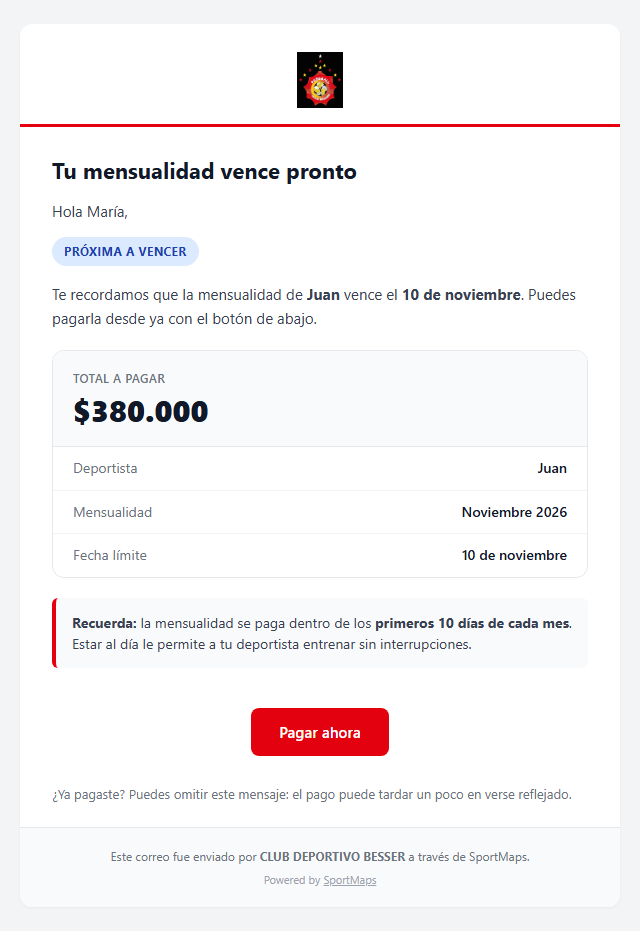
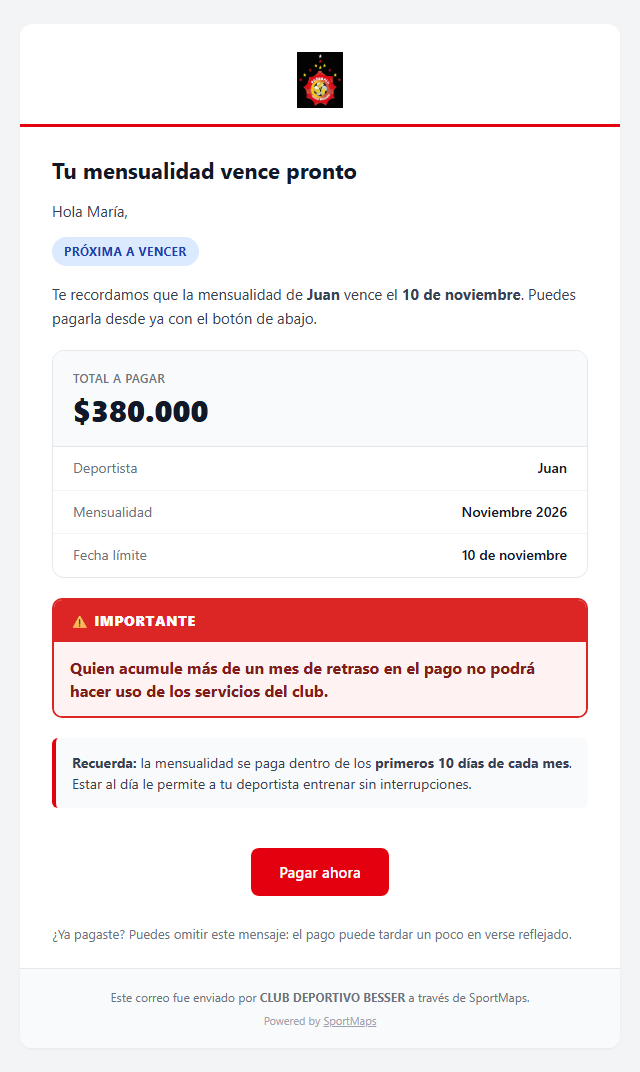
feat(cobranza): aviso de política de cobranza destacado en los recordatorios por correo
school_settings.collection_policy_notice (mig 20261014125527, aplicada): texto
de la escuela que sale en un recuadro rojo «IMPORTANTE» en cada correo de la
cadencia. Besser: «Quien acumule más de un mes de retraso en el pago no podrá
hacer uso de los servicios del club». NULL = sin recuadro (resto de escuelas).

Changed region(s): [[0.0312, 0.0311, 0.9688, 0.9656], [0.0625, 0.7164, 0.0938, 0.7476]]

diff --git a/bff/src/services/recordatorios-cobro.service.ts b/bff/src/services/recordatorios-cobro.service.ts
@@ -165,6 +165,8 @@ export interface ContactoPlaneado {
     perfilId: string | null;
     /** Día de corte de la escuela, para el recordatorio del correo. */
     diaCorte?: number | null;
+    /** Aviso de política de cobranza de la escuela (school_settings.collection_policy_notice). */
+    avisoPolitica?: string | null;
     concepto: ConceptoRecordatorio;
     /** Cobros que menciona el mensaje; el primero es el "líder" (el más viejo): botón y candado. */
     paymentIds: string[];
@@ -197,6 +199,8 @@ export interface EntradaPlan {
     canalCorreo?: boolean;
     /** Día del mes hasta el que se paga (calendario fijo): el correo lo recuerda. */
     diaCorte?: number | null;
+    /** Aviso de política de cobranza de la escuela, destacado en el correo. */
+    avisoPolitica?: string | null;
 }
 
 /**
@@ -273,6 +277,7 @@ export function planificar(e: EntradaPlan): Plan {
             email: g.canal === 'email' ? destino : null,
             perfilId: g.familias.find((f) => f.perfilId)?.perfilId ?? null,
             diaCorte: e.diaCorte ?? null,
+            avisoPolitica: e.avisoPolitica ?? null,
             concepto: lider.escalon.concepto,
             paymentIds: grupo.map((c) => c.paymentId),
             datos: {
@@ -446,7 +451,7 @@ export async function planDeEscuela(
     const [{ data: escuela }, integracion, { data: ajustes }] = await Promise.all([
         supabase.from('schools').select('name').eq('id', schoolId).maybeSingle(),
         integracionActiva(schoolId),
-        supabase.from('school_settings').select('payment_cutoff_day, billing_cycle_type').eq('school_id', schoolId).maybeSingle(),
+        supabase.from('school_settings').select('payment_cutoff_day, billing_cycle_type, collection_policy_notice').eq('school_id', schoolId).maybeSingle(),
     ]);
     const nombreEscuela = String((escuela as any)?.name ?? '').replace(/&amp;/g, '&');
     // «Los primeros N días de cada mes» solo es cierto con calendario fijo
@@ -454,6 +459,7 @@ export async function planDeEscuela(
     const diaCorte = (ajustes as any)?.billing_cycle_type === 'fixed_calendar'
         ? Number((ajustes as any)?.payment_cutoff_day) || null
         : null;
+    const avisoPolitica = String((ajustes as any)?.collection_policy_notice ?? '').trim() || null;
 
     // Solo mensualidades (las plantillas dicen "la mensualidad de …"), con saldo
     // y sin comprobante en revisión: a quien ya pagó y espera aprobación no se le cobra.
@@ -530,6 +536,7 @@ export async function planDeEscuela(
         contactadosHoy: new Set([...estadoHoy, ...recordatorioHoy]),
         canalCorreo: canales.correo,
         diaCorte,
+        avisoPolitica,
     });
     return {
         plan,
@@ -563,6 +570,7 @@ async function enviarPorCorreo(schoolId: string, c: ContactoPlaneado, lider: str
         paymentLink: link,
         schoolId,
         cutoffDay: c.diaCorte ?? null,
+        policyNotice: c.avisoPolitica ?? null,
     });
     const r = await emailClient.send({ to: c.email, subject: tpl.subject, html: tpl.html });
     if (!r?.success) return { enviado: false, motivo: 'correo_fallo' };

diff --git a/bff/src/utils/emailTemplates.ts b/bff/src/utils/emailTemplates.ts
@@ -245,6 +245,8 @@ export const BrandedEmailTemplates = {
         paymentLink: string;
         schoolId: string | null;
         cutoffDay?: number | null; // 10 → "los primeros 10 días de cada mes"
+        /** Política de cobranza de la escuela (school_settings.collection_policy_notice): recuadro destacado. */
+        policyNotice?: string | null;
     }): Promise<{ subject: string; html: string }> => {
         const branding = await resolveSchoolBranding(params.schoolId);
         const escuela = branding.schoolName.replace(/&amp;/g, '&');
@@ -340,6 +342,23 @@ export const BrandedEmailTemplates = {
                 </table>`
             : '';
 
+        const politica = params.policyNotice?.trim()
+            ? `
+                <table role="presentation" cellpadding="0" cellspacing="0" border="0" width="100%"
+                       style="margin: 20px 0 4px 0; border: 2px solid #dc2626; border-radius: 10px; border-collapse: separate; overflow: hidden;">
+                    <tr>
+                        <td style="background-color: #dc2626; padding: 10px 16px;">
+                            <p style="margin: 0; color: #ffffff; font-size: 14px; font-weight: 800; letter-spacing: 0.6px; text-transform: uppercase;">&#9888;&#65039; Importante</p>
+                        </td>
+                    </tr>
+                    <tr>
+                        <td style="background-color: #fef2f2; padding: 14px 16px;">
+                            <p style="margin: 0; color: #7f1d1d; font-size: 16px; font-weight: 700; line-height: 1.45;">${escapeHtml(params.policyNotice.trim())}</p>
+                        </td>
+                    </tr>
+                </table>`
+            : '';
+
         return {
             subject: t.subject,
             html: buildBrandedEmail({
@@ -364,6 +383,7 @@ export const BrandedEmailTemplates = {
                         </tr>
                         ${filas.map(([k, v], i) => fila(k, v, i === filas.length - 1)).join('')}
                     </table>
+                    ${politica}
                     ${corte}
                 `,
                 cta: { label: 'Pagar ahora', url: params.paymentLink },

diff --git a/docs/ejemplos-correos/besser/3-recordatorio_previo.html b/docs/ejemplos-correos/besser/3-recordatorio_previo.html
@@ -61,6 +61,20 @@
             </tr>
                     </table>
                     
+                <table role="presentation" cellpadding="0" cellspacing="0" border="0" width="100%"
+                       style="margin: 20px 0 4px 0; border: 2px solid #dc2626; border-radius: 10px; border-collapse: separate; overflow: hidden;">
+                    <tr>
+                        <td style="background-color: #dc2626; padding: 10px 16px;">
+                            <p style="margin: 0; color: #ffffff; font-size: 14px; font-weight: 800; letter-spacing: 0.6px; text-transform: uppercase;">&#9888;&#65039; Importante</p>
+                        </td>
+                    </tr>
+                    <tr>
+                        <td style="background-color: #fef2f2; padding: 14px 16px;">
+                            <p style="margin: 0; color: #7f1d1d; font-size: 16px; font-weight: 700; line-height: 1.45;">Quien acumule más de un mes de retraso en el pago no podrá hacer uso de los servicios del club.</p>
+                        </td>
+                    </tr>
+                </table>
+                    
                 <table role="presentation" cellpadding="0" cellspacing="0" border="0" width="100%" style="margin: 20px 0 4px 0;">
                     <tr>
                         <td style="background-color: #f9fafb; border-left: 4px solid #E3000F; border-radius: 6px; padding: 14px 16px;">

diff --git a/docs/ejemplos-correos/besser/4-vence_hoy.html b/docs/ejemplos-correos/besser/4-vence_hoy.html
@@ -60,6 +60,20 @@
             </tr>
                     </table>
                     
+                <table role="presentation" cellpadding="0" cellspacing="0" border="0" width="100%"
+                       style="margin: 20px 0 4px 0; border: 2px solid #dc2626; border-radius: 10px; border-collapse: separate; overflow: hidden;">
+                    <tr>
+                        <td style="background-color: #dc2626; padding: 10px 16px;">
+                            <p style="margin: 0; color: #ffffff; font-size: 14px; font-weight: 800; letter-spacing: 0.6px; text-transform: uppercase;">&#9888;&#65039; Importante</p>
+                        </td>
+                    </tr>
+                    <tr>
+                        <td style="background-color: #fef2f2; padding: 14px 16px;">
+                            <p style="margin: 0; color: #7f1d1d; font-size: 16px; font-weight: 700; line-height: 1.45;">Quien acumule más de un mes de retraso en el pago no podrá hacer uso de los servicios del club.</p>
+                        </td>
+                    </tr>
+                </table>
+                    
                 <table role="presentation" cellpadding="0" cellspacing="0" border="0" width="100%" style="margin: 20px 0 4px 0;">
                     <tr>
                         <td style="background-color: #f9fafb; border-left: 4px solid #E3000F; border-radius: 6px; padding: 14px 16px;">

diff --git a/docs/ejemplos-correos/besser/5-pendiente_suave.html b/docs/ejemplos-correos/besser/5-pendiente_suave.html
@@ -65,6 +65,20 @@
             </tr>
                     </table>
                     
+                <table role="presentation" cellpadding="0" cellspacing="0" border="0" width="100%"
+                       style="margin: 20px 0 4px 0; border: 2px solid #dc2626; border-radius: 10px; border-collapse: separate; overflow: hidden;">
+                    <tr>
+                        <td style="background-color: #dc2626; padding: 10px 16px;">
+                            <p style="margin: 0; color: #ffffff; font-size: 14px; font-weight: 800; letter-spacing: 0.6px; text-transform: uppercase;">&#9888;&#65039; Importante</p>
+                        </td>
+                    </tr>
+                    <tr>
+                        <td style="background-color: #fef2f2; padding: 14px 16px;">
+                            <p style="margin: 0; color: #7f1d1d; font-size: 16px; font-weight: 700; line-height: 1.45;">Quien acumule más de un mes de retraso en el pago no podrá hacer uso de los servicios del club.</p>
+                        </td>
+                    </tr>
+                </table>
+                    
                 <table role="presentation" cellpadding="0" cellspacing="0" border="0" width="100%" style="margin: 20px 0 4px 0;">
                     <tr>
                         <td style="background-color: #f9fafb; border-left: 4px solid #E3000F; border-radius: 6px; padding: 14px 16px;">

diff --git a/docs/ejemplos-correos/besser/6-pendiente_directo.html b/docs/ejemplos-correos/besser/6-pendiente_directo.html
@@ -65,6 +65,20 @@
             </tr>
                     </table>
                     
+                <table role="presentation" cellpadding="0" cellspacing="0" border="0" width="100%"
+                       style="margin: 20px 0 4px 0; border: 2px solid #dc2626; border-radius: 10px; border-collapse: separate; overflow: hidden;">
+                    <tr>
+                        <td style="background-color: #dc2626; padding: 10px 16px;">
+                            <p style="margin: 0; color: #ffffff; font-size: 14px; font-weight: 800; letter-spacing: 0.6px; text-transform: uppercase;">&#9888;&#65039; Importante</p>
+                        </td>
+                    </tr>
+                    <tr>
+                        <td style="background-color: #fef2f2; padding: 14px 16px;">
+                            <p style="margin: 0; color: #7f1d1d; font-size: 16px; font-weight: 700; line-height: 1.45;">Quien acumule más de un mes de retraso en el pago no podrá hacer uso de los servicios del club.</p>
+                        </td>
+                    </tr>
+                </table>
+                    
                 <table role="presentation" cellpadding="0" cellspacing="0" border="0" width="100%" style="margin: 20px 0 4px 0;">
                     <tr>
                         <td style="background-color: #f9fafb; border-left: 4px solid #E3000F; border-radius: 6px; padding: 14px 16px;">

diff --git a/docs/ejemplos-correos/besser/7-aviso_final.html b/docs/ejemplos-correos/besser/7-aviso_final.html
@@ -65,6 +65,20 @@
             </tr>
                     </table>
                     
+                <table role="presentation" cellpadding="0" cellspacing="0" border="0" width="100%"
+                       style="margin: 20px 0 4px 0; border: 2px solid #dc2626; border-radius: 10px; border-collapse: separate; overflow: hidden;">
+                    <tr>
+                        <td style="background-color: #dc2626; padding: 10px 16px;">
+                            <p style="margin: 0; color: #ffffff; font-size: 14px; font-weight: 800; letter-spacing: 0.6px; text-transform: uppercase;">&#9888;&#65039; Importante</p>
+                        </td>
+                    </tr>
+                    <tr>
+                        <td style="background-color: #fef2f2; padding: 14px 16px;">
+                            <p style="margin: 0; color: #7f1d1d; font-size: 16px; font-weight: 700; line-height: 1.45;">Quien acumule más de un mes de retraso en el pago no podrá hacer uso de los servicios del club.</p>
+                        </td>
+                    </tr>
+                </table>
+                    
                 <table role="presentation" cellpadding="0" cellspacing="0" border="0" width="100%" style="margin: 20px 0 4px 0;">
                     <tr>
                         <td style="background-color: #f9fafb; border-left: 4px solid #E3000F; border-radius: 6px; padding: 14px 16px;">

diff --git a/bff/src/services/recordatorios-cobro.service.test.ts b/bff/src/services/recordatorios-cobro.service.test.ts
@@ -185,7 +185,7 @@ describe('planificar — canal correo', () => {
     it('sin WhatsApp con opt-in y la escuela con correo: sale por correo con el correo como clave', () => {
         const sinTel = familia('b@x.co', null, [{ id: 'p2', atleta: 'Beto', vence: '2026-10-09' }]);            // 0
         const sinOptin = familia('A@X.co', '573111111111', [{ id: 'p1', atleta: 'Ana', vence: '2026-10-06' }]); // +3
-        const plan = planificar(entrada([sinTel, sinOptin], [pago('p1', '2026-10-06'), pago('p2', '2026-10-09')], { canalCorreo: true, diaCorte: 10 }));
+        const plan = planificar(entrada([sinTel, sinOptin], [pago('p1', '2026-10-06'), pago('p2', '2026-10-09')], { canalCorreo: true, diaCorte: 10, avisoPolitica: 'Sin servicio con más de un mes de retraso.' }));
         expect(plan.contactos.map((c) => [c.canal, c.familyKey, c.concepto])).toEqual([
             ['email', 'b@x.co', 'vence_hoy'],
             ['email', 'a@x.co', 'pendiente_suave'],
@@ -193,6 +193,7 @@ describe('planificar — canal correo', () => {
         expect(plan.contactos[0].email).toBe('b@x.co');
         expect(plan.contactos[0].waId).toBeNull();
         expect(plan.contactos[0].diaCorte).toBe(10);
+        expect(plan.contactos[0].avisoPolitica).toBe('Sin servicio con más de un mes de retraso.');
     });
 
     it('con opt-in de WhatsApp va SOLO por WhatsApp (un canal por familia)', () => {
